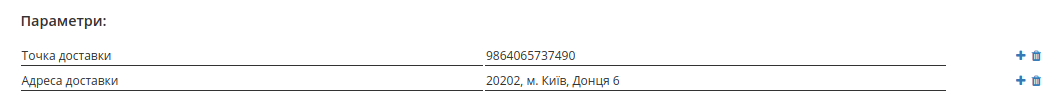
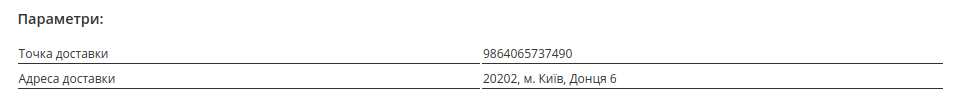
params_from_place_delivery

diff --git a/docs/ClientProcesses/ATB/ATB_Instructions/ATB_external_EDI_instruction_post.rst b/docs/ClientProcesses/ATB/ATB_Instructions/ATB_external_EDI_instruction_post.rst
@@ -8,10 +8,6 @@
 
 .. |будинок| image:: pics_ATB_external_EDI_instruction/ATB_external_EDI_instruction_004.png
 
-.. |плюс| image:: pics_ATB_external_EDI_instruction/ATB_external_EDI_instruction_029.png
-
-.. |мусорка| image:: pics_ATB_external_EDI_instruction/ATB_external_EDI_instruction_030.png
-
 .. |info| image:: pics_ATB_external_EDI_instruction/ATB_external_EDI_instruction_064.png
 
 .. role:: red
@@ -212,7 +208,7 @@
    .. image:: pics_ATB_external_EDI_instruction/ATB_external_EDI_instruction_120.png
       :align: center
 
-В блок **Параметрів** можливо "Додати" (|плюс|) чи "Видалити" (|мусорка|) власні значення. З документа-підстави автоматично заповнюються обов'язкові **Параметри** доставки - "Точка доставки" та "Адреса доставки":
+В блоці **Параметрів** обов'язкові **Параметри** доставки - "Точка доставки" та "Адреса доставки" автоматично заповнюється значеннями відповідно до заповненого блоку **Місце доставки**:
 
 .. image:: pics_ATB_external_EDI_instruction/ATB_external_EDI_instruction_031.png
    :align: center
@@ -422,7 +418,7 @@
    .. image:: pics_ATB_external_EDI_instruction/ATB_external_EDI_instruction_120.png
       :align: center
 
-В блок **Параметрів** можливо "Додати" (|плюс|) чи "Видалити" (|мусорка|) власні значення. З документа-підстави автоматично заповнюються обов'язкові **Параметри** доставки - "Точка доставки" та "Адреса доставки":
+В блоці **Параметрів** обов'язкові **Параметри** доставки - "Точка доставки" та "Адреса доставки" автоматично заповнюється значеннями відповідно до заповненого блоку **Місце доставки**:
 
 .. image:: pics_ATB_external_EDI_instruction/ATB_external_EDI_instruction_031.png
    :align: center
